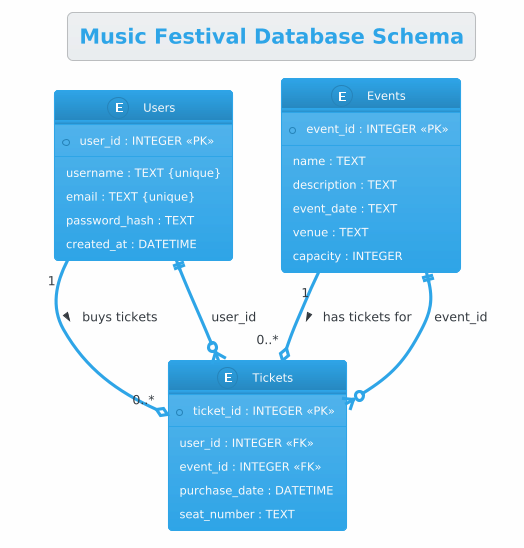
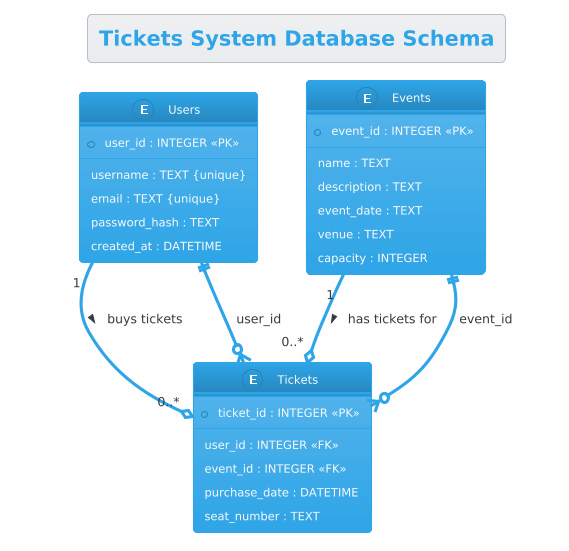
changed name of schema image

diff --git a/README.md b/README.md
@@ -12,6 +12,7 @@ Setup:
 #### How to use sqlite3
 
 * schema design
+
 ![Schema Diagram](schema.png)
 
 * setup database